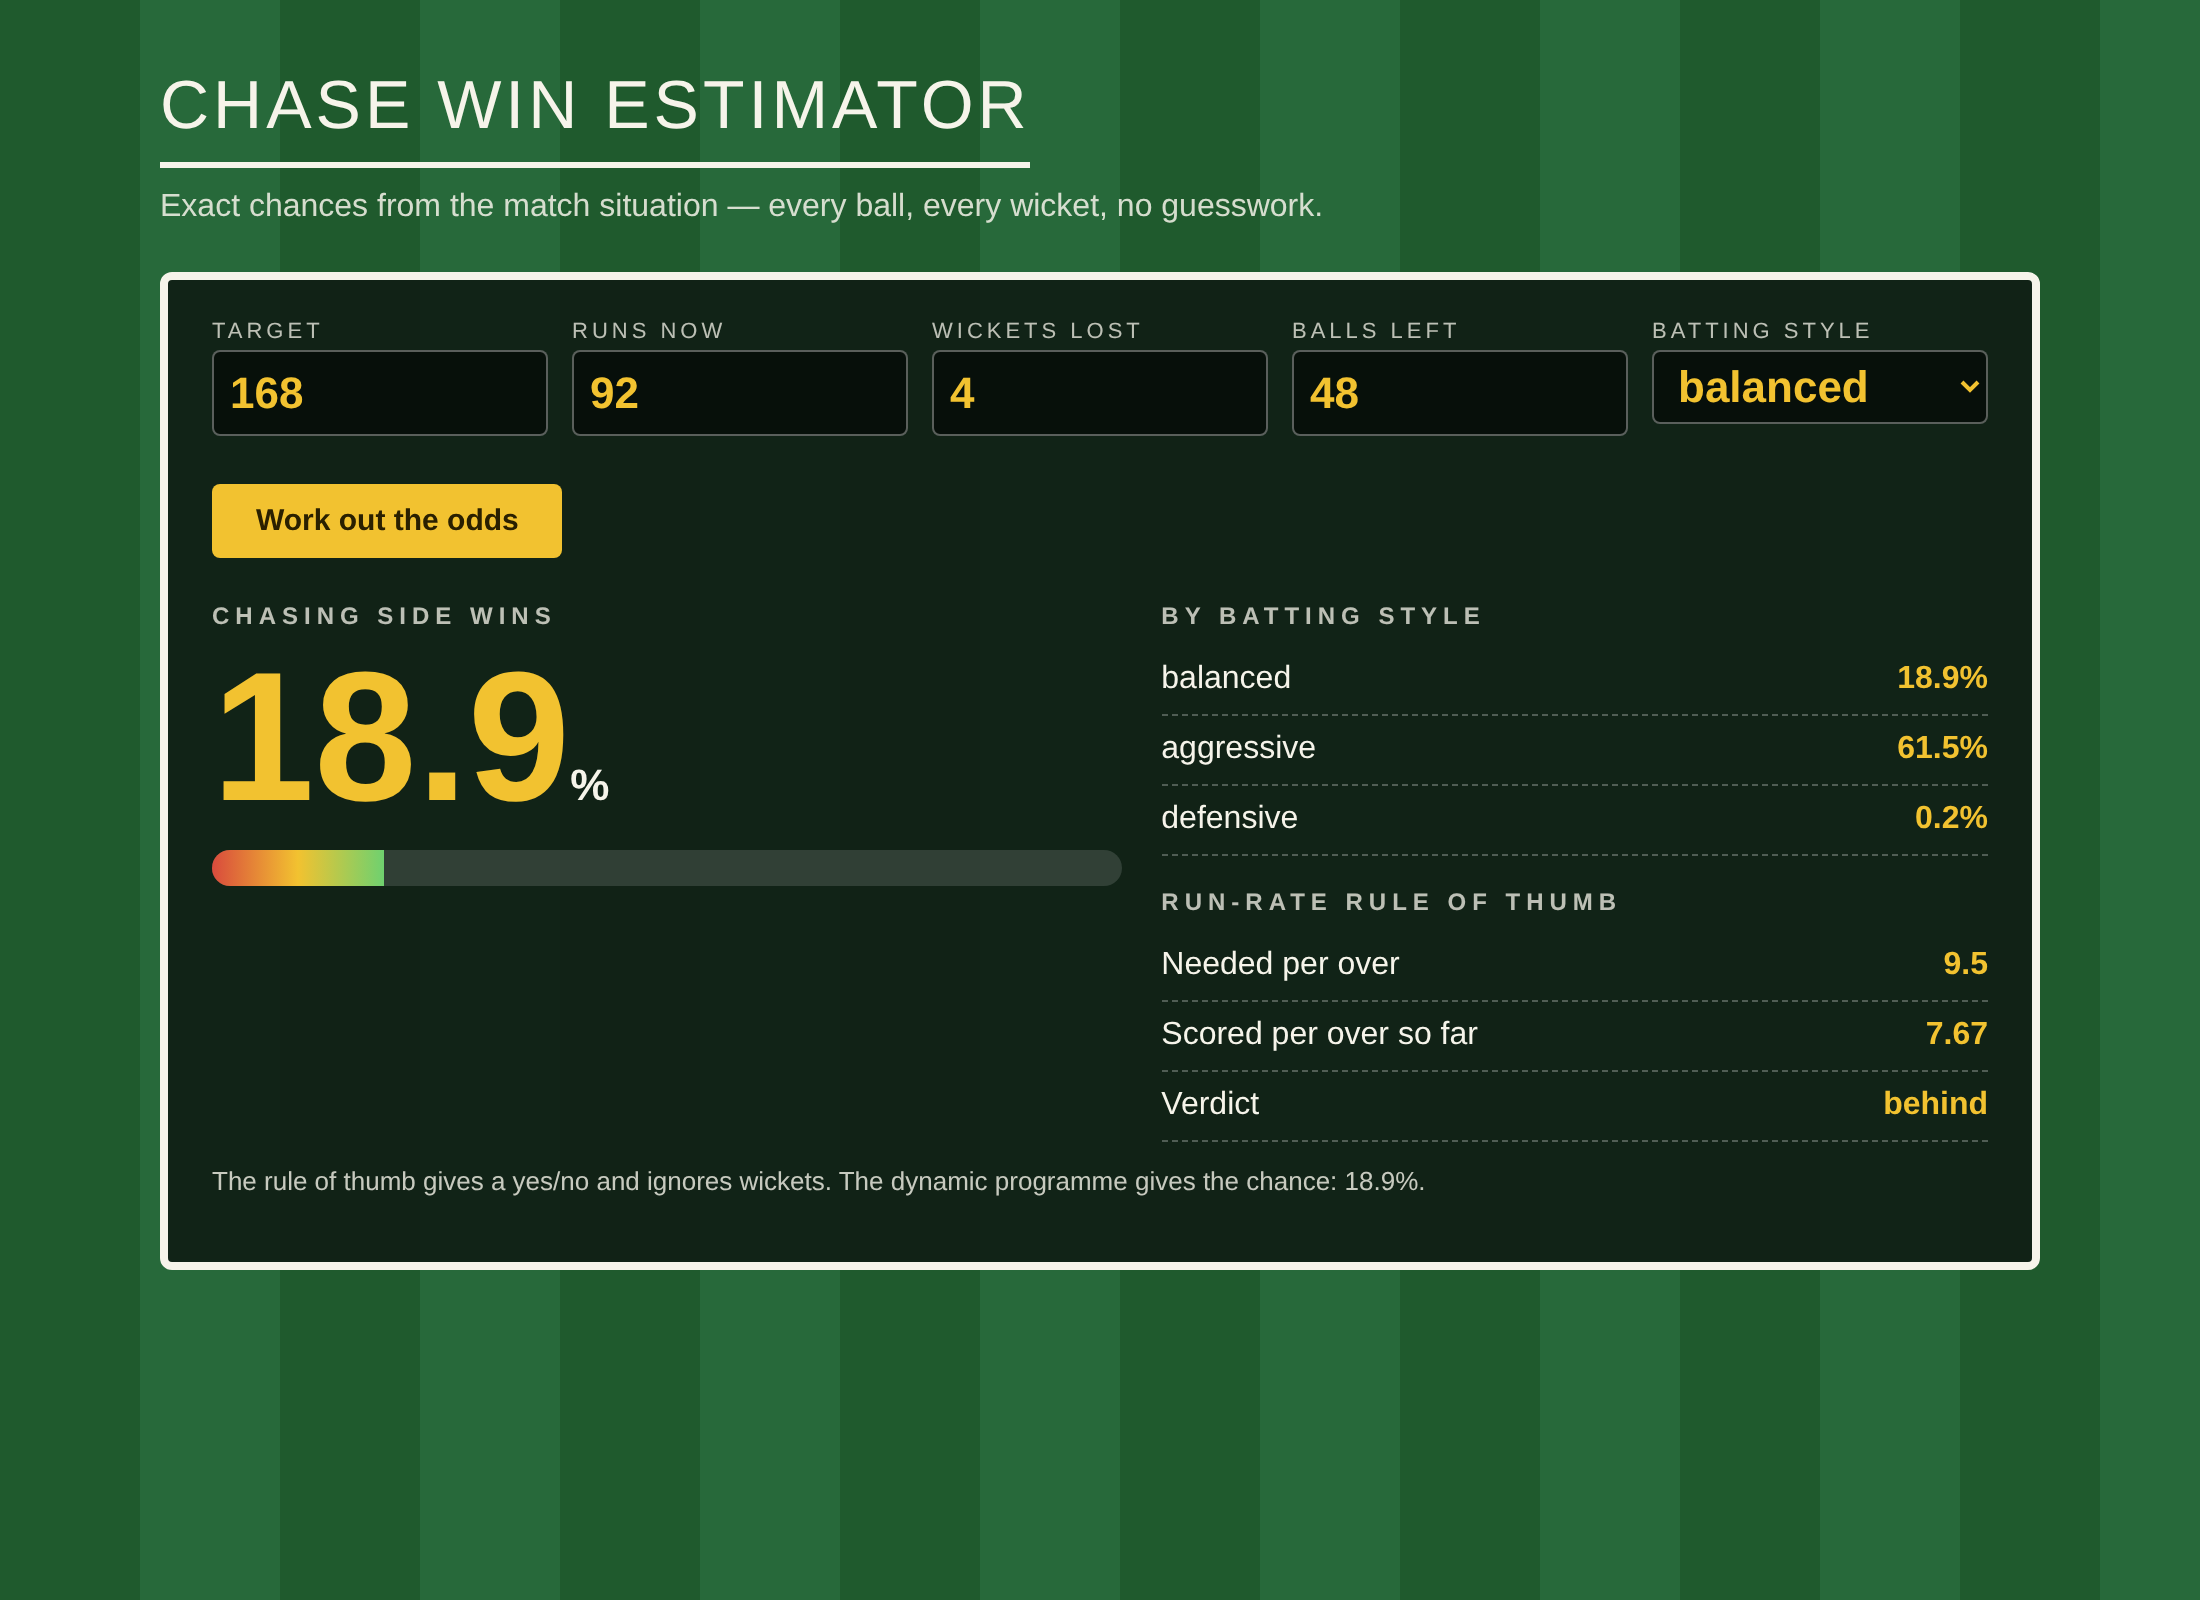
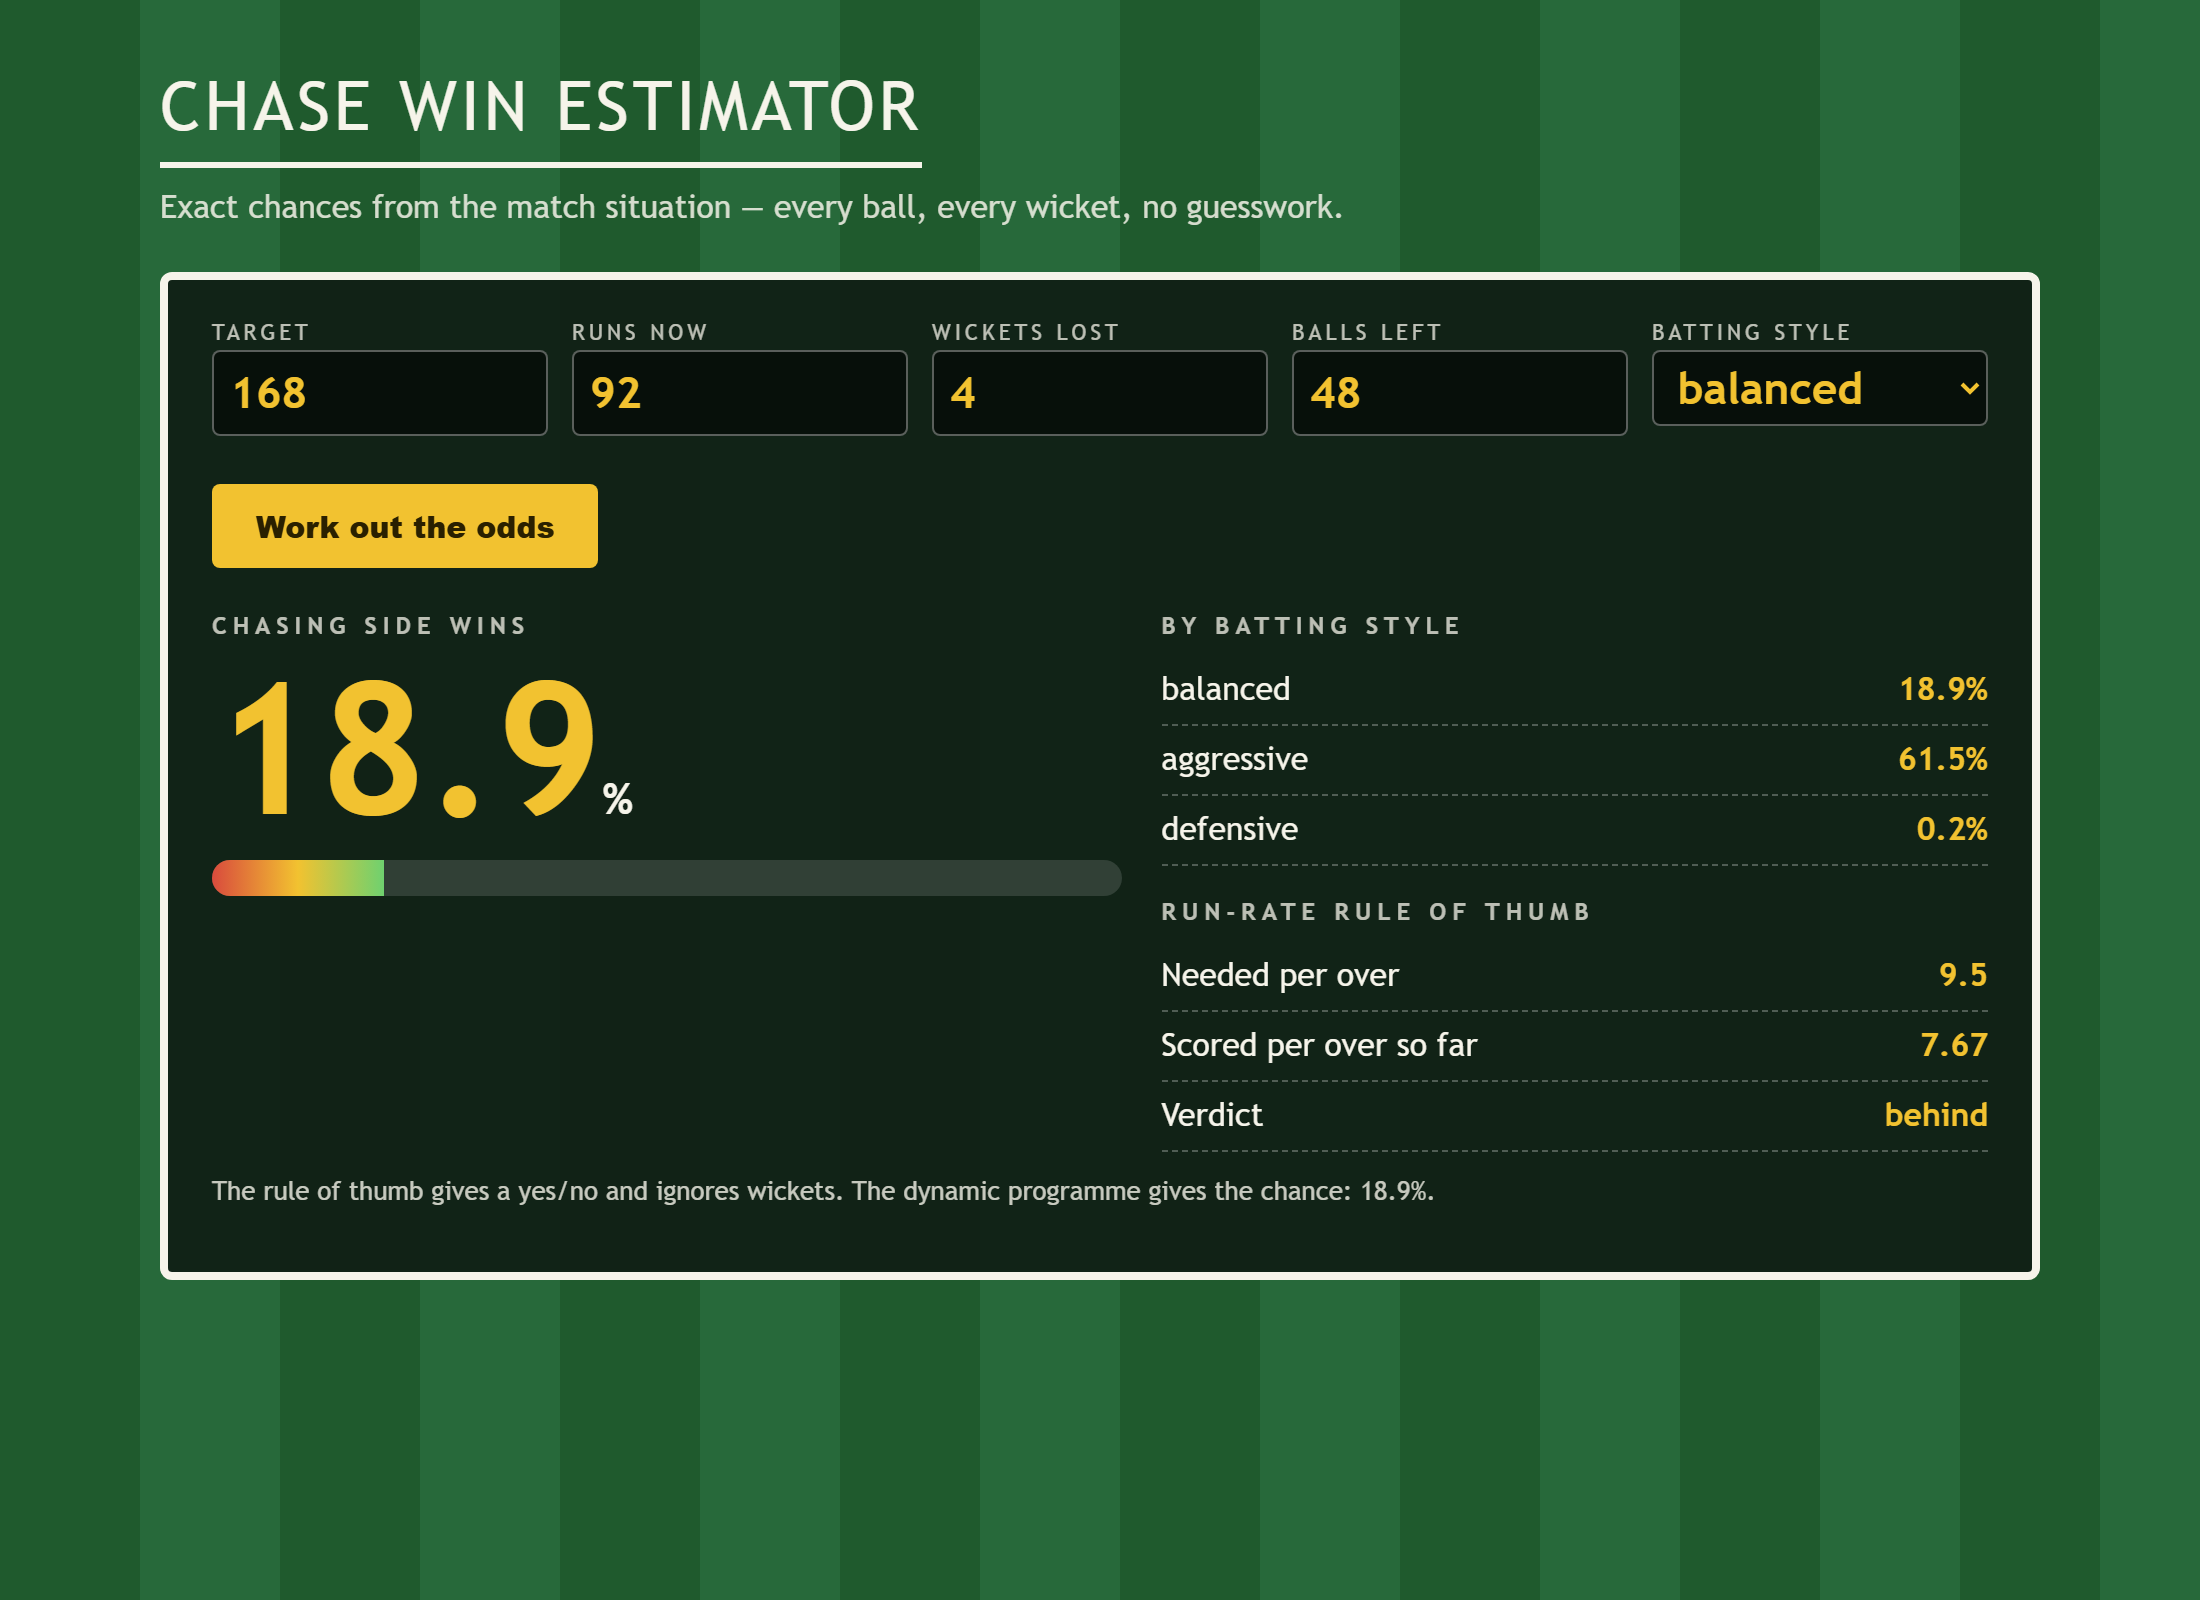
Improve chase-win-estimator

diff --git a/static/index.html b/static/index.html
@@ -11,7 +11,7 @@ label{font-size:11px;letter-spacing:2px;text-transform:uppercase;opacity:.75;dis
 input,select{width:100%;font:inherit;font-size:22px;font-weight:700;background:#0008;color:var(--gold);border:1px solid #fff5;border-radius:4px;padding:4px 8px}select option{color:#000}
 button{background:var(--gold);color:#2a2000;border:0;border-radius:4px;padding:10px 22px;font-weight:800;cursor:pointer;font-size:15px;margin-top:6px}
 .res{display:grid;grid-template-columns:1.1fr 1fr;gap:20px;margin-top:20px}@media(max-width:760px){.res{grid-template-columns:1fr}}
-.big{font-size:92px;font-weight:800;line-height:1;color:var(--gold)}.big small{font-size:22px;color:var(--chalk)}
+.big{font-size:clamp(56px,22vw,92px);font-weight:800;line-height:1;color:var(--gold)}.big small{font-size:22px;color:var(--chalk)}
 .meter{height:18px;background:#fff2;border-radius:9px;overflow:hidden;margin:10px 0}.meter i{display:block;height:100%;background:linear-gradient(90deg,var(--red),var(--gold),#6fd16f)}
 .row{display:flex;justify-content:space-between;border-bottom:1px dashed #fff4;padding:5px 0}.row b{color:var(--gold)}
 h2{font-size:12px;letter-spacing:3px;text-transform:uppercase;margin:0 0 6px;opacity:.75}.note{font-size:13px;opacity:.8;margin-top:10px}#err{color:#ffb0a8}
@@ -24,15 +24,15 @@ h2{font-size:12px;letter-spacing:3px;text-transform:uppercase;margin:0 0 6px;opa
 <button id="go">Work out the odds</button> <span id="err"></span>
 <div class="res"><div><h2>Chasing side wins</h2><div class="big" id="pr"></div><div class="meter"><i id="m"></i></div></div>
 <div><h2>By batting style</h2><div id="bp"></div><h2 style="margin-top:14px">Run-rate rule of thumb</h2><div id="bl"></div></div></div>
-<p class="note" id="note"></p></div></main>
+<p class="note" id="note" role="status"></p></div></main>
 <script>
 const $=i=>document.getElementById(i);
-async function run(){$('err').textContent='';const body={preset:$('p').value,target:+$('t').value,runs:+$('r').value,wickets:+$('w').value,balls_left:+$('b').value};
+async function run(){$('err').textContent='';try{const body={preset:$('p').value,target:+$('t').value,runs:+$('r').value,wickets:+$('w').value,balls_left:+$('b').value};
 const res=await fetch('/estimate',{method:'POST',headers:{'Content-Type':'application/json'},body:JSON.stringify(body)});const j=await res.json();if(!res.ok){$('err').textContent=j.detail;return}
 const pc=j.win_probability*100;$('pr').innerHTML=`${pc.toFixed(1)}<small>%</small>`;$('m').style.width=pc+'%';
 $('bp').innerHTML=Object.entries(j.by_preset).map(([k,v])=>`<div class="row"><span>${k}</span><b>${(v*100).toFixed(1)}%</b></div>`).join('');
 const b=j.baseline;$('bl').innerHTML=`<div class="row"><span>Needed per over</span><b>${b.required_rate}</b></div><div class="row"><span>Scored per over so far</span><b>${b.current_rate}</b></div><div class="row"><span>Verdict</span><b>${b.verdict}</b></div>`;
-$('note').textContent=`The rule of thumb gives a yes/no and ignores wickets. The dynamic programme gives the chance: ${pc.toFixed(1)}%.`}
-fetch('/sample').then(r=>r.json()).then(d=>{const s=d.scenario;$('t').value=s.target;$('r').value=s.runs;$('w').value=s.wickets;$('b').value=s.balls_left;$('p').value=s.preset;run()});
+$('note').textContent=`The rule of thumb gives a yes/no and ignores wickets. The dynamic programme gives the chance: ${pc.toFixed(1)}%.`}catch(e){$('err').textContent='Could not work out the odds. Try again.'}}
+fetch('/sample').then(r=>r.json()).then(d=>{const s=d.scenario;$('t').value=s.target;$('r').value=s.runs;$('w').value=s.wickets;$('b').value=s.balls_left;$('p').value=s.preset;run()}).catch(()=>{$('err').textContent='Could not load the sample scenario.'});
 $('go').onclick=run;
 </script></body></html>

diff --git a/tests/test_all.py b/tests/test_all.py
@@ -74,3 +74,15 @@ def test_api():
     assert c.post("/estimate", json={**S, "preset": "x"}).status_code == 422
     assert c.post("/estimate", json={**S, "wickets": 12}).status_code == 422
     assert c.get("/").status_code == 200
+
+
+def test_index_has_run_error_text():
+    assert "Could not work out the odds" in c.get("/").text
+
+
+def test_index_has_sample_error_text():
+    assert "Could not load the sample scenario" in c.get("/").text
+
+
+def test_one_live_region():
+    assert c.get("/").text.count('role="status"') == 1
